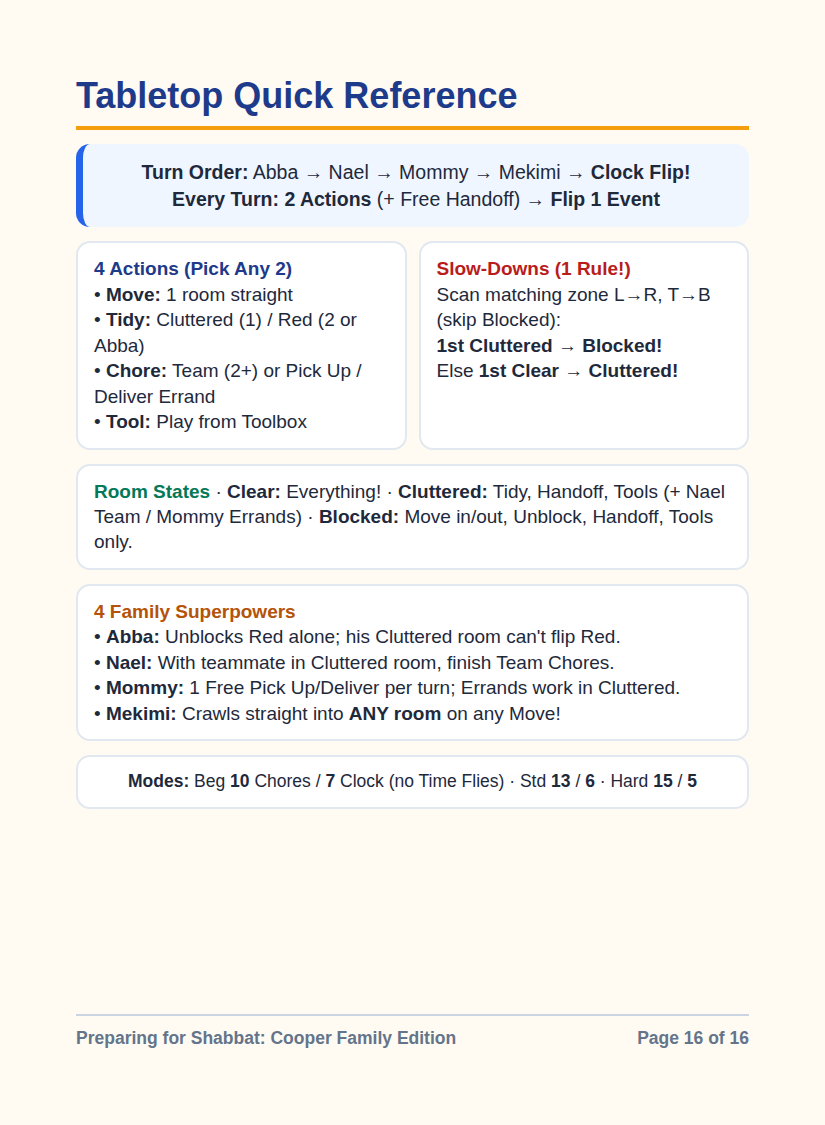
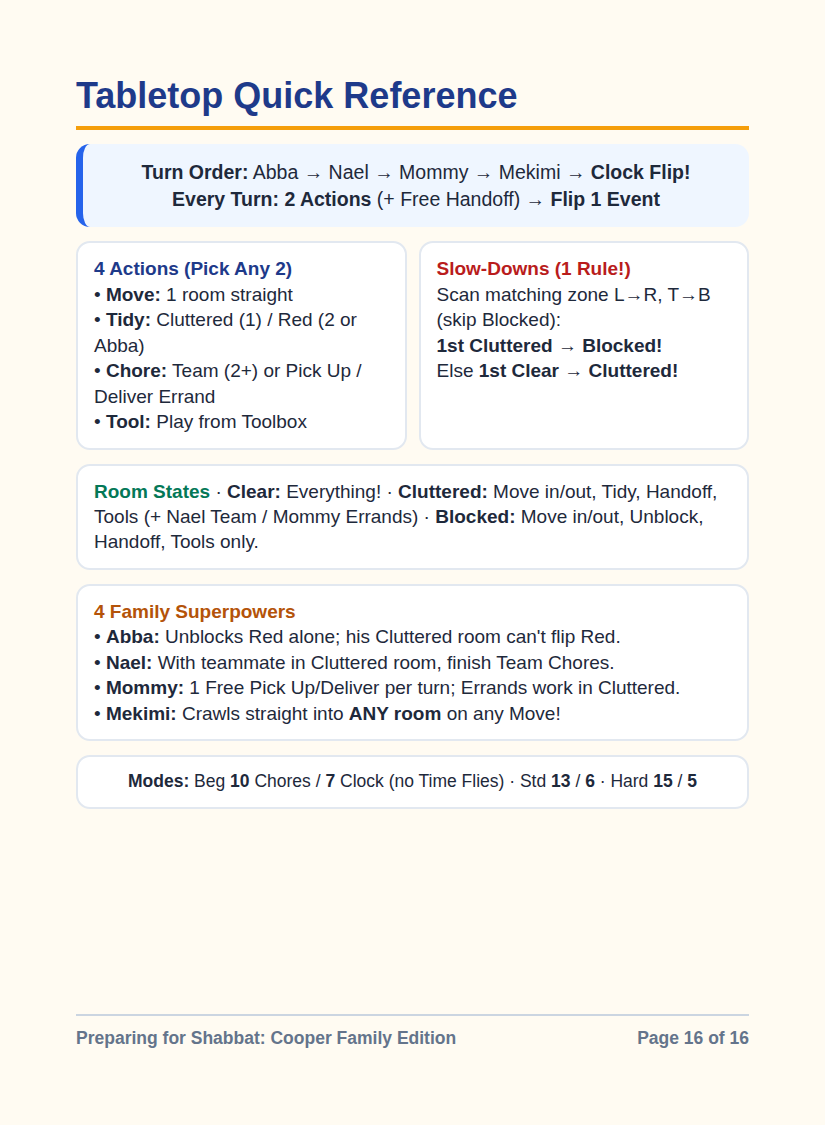
Fix final critical audit items: Page 7 example, live oak tabletop URL, Abba cancel text & polish

Changed region(s): [[0.1212, 0.4044, 0.8788, 0.4978]]

diff --git a/src/engine/events.ts b/src/engine/events.ts
@@ -358,7 +358,7 @@ export function advanceAfterEvent(state: GameState): GameState {
       clockNote =
         remainingSafe <= 0
           ? 'Clock flipped (FINAL ROUND!)'
-          : `Clock flipped (${remainingSafe} safe round${remainingSafe === 1 ? '' : 's'} left)`;
+          : `Clock flipped (${remainingSafe} safe flip${remainingSafe === 1 ? '' : 's'} left)`;
       next = appendLog(
         next,
         'ROUND',

diff --git a/src/data/cards.ts b/src/data/cards.ts
@@ -105,7 +105,7 @@ export const HELPER_DEFS: Record<HelperId, HelperDef> = {
       {
         name: 'Balagan Barrier',
         timing: 'Always On',
-        text: "While Abba stands in a Cluttered room, Slow-Downs can't flip it Blocked.",
+        text: "While Abba stands in a Cluttered room, Slow-Downs can't flip it Blocked (the hit is canceled!).",
       },
     ],
   },

diff --git a/src/App.tsx b/src/App.tsx
@@ -136,7 +136,7 @@ export default function App() {
       className="app-shell tabletop-surface"
       style={
         {
-          '--table-wood-url': `url(${assetUrl(TABLE_WOOD_IMAGE)})`,
+          '--table-wood-url': `url("${new URL(assetUrl(TABLE_WOOD_IMAGE), document.baseURI).href}")`,
         } as React.CSSProperties
       }
     >

diff --git a/scripts/generate-d2-print-pack.py b/scripts/generate-d2-print-pack.py
@@ -271,7 +271,7 @@ HELPERS_SPEC = [
         "art_h": 375,
         "powers": [
             ("Solo Cleanup", "YOUR TURN", "Flip a Red Blocked room you're in back to Clear all by yourself (1 Action — no teammate needed)."),
-            ("Balagan Barrier", "ALWAYS ON", "While Abba stands in a Cluttered room, Slow-Downs can't flip it Blocked."),
+            ("Balagan Barrier", "ALWAYS ON", "While Abba stands in a Cluttered room, Slow-Downs can't flip it Blocked (the hit is canceled!)."),
         ],
         "flavor": "“Flour on the counter? Fine. Total meltdown? Not on his watch.”",
     },
@@ -976,7 +976,7 @@ def build_booklet_pages() -> list[tuple[int, str]]:
         """),
 
         (7, "5. Actions: Move & Tidy", """
-          <p>On your turn, take <strong>up to 2 Actions</strong> in any order—you may even do the same action twice (like Move → Move or Tidy → Tidy!).</p>
+          <p>On your turn, take <strong>up to 2 Actions</strong> in any order—you may even do the same action twice (like Move → Move or Chore → Chore!).</p>
           <div class="box-card" style="border-left:7px solid #2563EB;">
             <h2 style="margin-top:0; color:#1E40AF;">Action: Move (1 Action)</h2>
             <ul>
@@ -1099,7 +1099,7 @@ def build_booklet_pages() -> list[tuple[int, str]]:
             <div>
               <h3>1. ABBA · Top-Left</h3>
               <p><strong>Solo Cleanup (Your Turn):</strong> Unblock a Red Blocked room alone (1 Action).<br>
-              <strong>Balagan Barrier (Always On):</strong> While Abba stands in a Cluttered room, Slow-Downs can't flip it Blocked!</p>
+              <strong>Balagan Barrier (Always On):</strong> While Abba stands in a Cluttered room, Slow-Downs can't flip it Blocked (the hit is canceled!).</p>
             </div>
           </div>
           <div class="helper-row" style="--c:#059669;">
@@ -1205,7 +1205,7 @@ def build_booklet_pages() -> list[tuple[int, str]]:
                 <li><strong>Tidy</strong> a sideways room (alone) or a Red room (with a friend—or Abba alone!).</li>
                 <li><strong>Team Chore (Purple):</strong> Meet a friend in a matching Clear room and finish it!</li>
                 <li><strong>Errand (Blue):</strong> Pick up at Start, carry it, drop off at End! <em>(Handing to a friend in your room is FREE!)</em></li>
-                <li><strong>Use a Tool</strong> from the Toolbox anytime!</li>
+                <li><strong>Use a Tool</strong> from the Toolbox (from any room)!</li>
               </ul>
             </li>
             <li><strong>Flip 1 Event Card:</strong> Tool → Toolbox! Slow-Down → match the color: flip the 1st sideways room Red (or tilt the 1st Clear room sideways!).</li>
@@ -1237,7 +1237,7 @@ def build_booklet_pages() -> list[tuple[int, str]]:
             </div>
           </div>
           <div class="box-card">
-            <strong style="color:#047857;">Room States</strong> · <strong>Clear:</strong> Everything! · <strong>Cluttered:</strong> Tidy, Handoff, Tools (+ Nael Team / Mommy Errands) · <strong>Blocked:</strong> Move in/out, Unblock, Handoff, Tools only.
+            <strong style="color:#047857;">Room States</strong> · <strong>Clear:</strong> Everything! · <strong>Cluttered:</strong> Move in/out, Tidy, Handoff, Tools (+ Nael Team / Mommy Errands) · <strong>Blocked:</strong> Move in/out, Unblock, Handoff, Tools only.
           </div>
           <div class="box-card">
             <strong style="color:#B45309;">4 Family Superpowers</strong><br>
@@ -1335,28 +1335,34 @@ def render_shared_helper_back_html(orig_path: Path) -> str:
       </div>
     </body></html>"""
 
-def render_all(only_backs_and_pages: set[int] | None = None):
+def render_all(only_backs_and_pages: set[int] | None = None, only_abba_and_pages: set[int] | None = None):
     jobs: list[tuple[Path, str]] = []
 
-    if only_backs_and_pages is None:
-        for h in HELPERS_SPEC:
-            jobs.append((FRONTS_DIR / h["file"], render_helper_html(h)))
-        for c in CHORES_SPEC:
-            jobs.append((FRONTS_DIR / c[0], render_chore_html(c)))
-        for t in TOOLS_SPEC:
-            jobs.append((FRONTS_DIR / t["file"], render_tool_html(t)))
-        for s in SLOW_DOWNS_SPEC:
-            jobs.append((FRONTS_DIR / s[0], render_slowdown_html(s)))
-        jobs.append((FRONTS_DIR / "clock_63_71_friday_afternoon_QTY9.png", render_friday_afternoon_html()))
+    if only_abba_and_pages is not None:
+        jobs.append((FRONTS_DIR / HELPERS_SPEC[0]["file"], render_helper_html(HELPERS_SPEC[0])))
+        for num, html in build_booklet_pages():
+            if num in only_abba_and_pages:
+                jobs.append((BOOKLET_DIR / f"small_booklet_page_{num:02d}.png", html))
+    else:
+        if only_backs_and_pages is None:
+            for h in HELPERS_SPEC:
+                jobs.append((FRONTS_DIR / h["file"], render_helper_html(h)))
+            for c in CHORES_SPEC:
+                jobs.append((FRONTS_DIR / c[0], render_chore_html(c)))
+            for t in TOOLS_SPEC:
+                jobs.append((FRONTS_DIR / t["file"], render_tool_html(t)))
+            for s in SLOW_DOWNS_SPEC:
+                jobs.append((FRONTS_DIR / s[0], render_slowdown_html(s)))
+            jobs.append((FRONTS_DIR / "clock_63_71_friday_afternoon_QTY9.png", render_friday_afternoon_html()))
 
-    # 13 updated card backs (12 Red Blocked Rooms + Shared Helper Back)
-    for back_path in sorted(BACKS_DIR.glob("back_room_*_BLOCKED.png")):
-        jobs.append((back_path, render_blocked_back_html(back_path)))
-    jobs.append((BACKS_DIR / "back_SHARED_helpers.png", render_shared_helper_back_html(BACKS_DIR / "back_SHARED_helpers.png")))
+        # 13 updated card backs (12 Red Blocked Rooms + Shared Helper Back)
+        for back_path in sorted(BACKS_DIR.glob("back_room_*_BLOCKED.png")):
+            jobs.append((back_path, render_blocked_back_html(back_path)))
+        jobs.append((BACKS_DIR / "back_SHARED_helpers.png", render_shared_helper_back_html(BACKS_DIR / "back_SHARED_helpers.png")))
 
-    for num, html in build_booklet_pages():
-        if only_backs_and_pages is None or num in only_backs_and_pages:
-            jobs.append((BOOKLET_DIR / f"small_booklet_page_{num:02d}.png", html))
+        for num, html in build_booklet_pages():
+            if only_backs_and_pages is None or num in only_backs_and_pages:
+                jobs.append((BOOKLET_DIR / f"small_booklet_page_{num:02d}.png", html))
 
     print(f"Rendering {len(jobs)} TGC 300-DPI RGB PNGs...")
     overflows = []
@@ -1399,7 +1405,9 @@ def render_all(only_backs_and_pages: set[int] | None = None):
 
 if __name__ == "__main__":
     import sys
-    if "--backs-and-booklet" in sys.argv:
+    if "--targeted-polish" in sys.argv:
+        render_all(only_abba_and_pages={7, 12, 15, 16})
+    elif "--backs-and-booklet" in sys.argv:
         render_all(only_backs_and_pages={7, 12, 13, 14, 15, 16})
     else:
         render_all()
